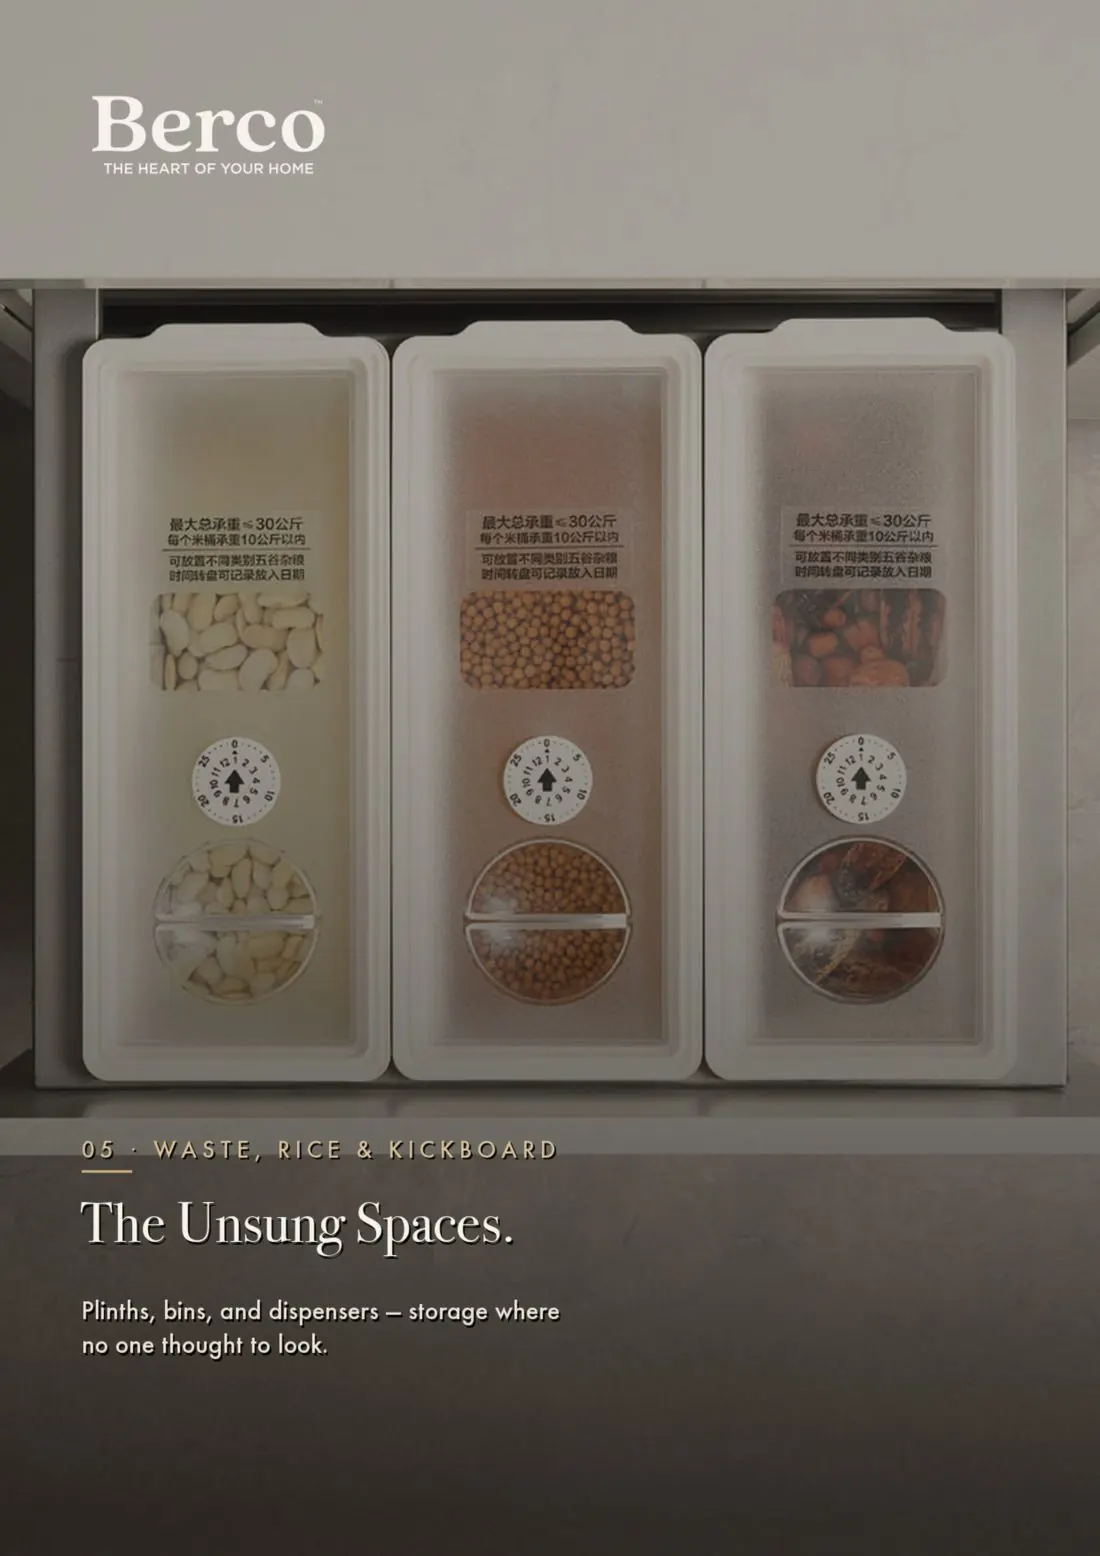
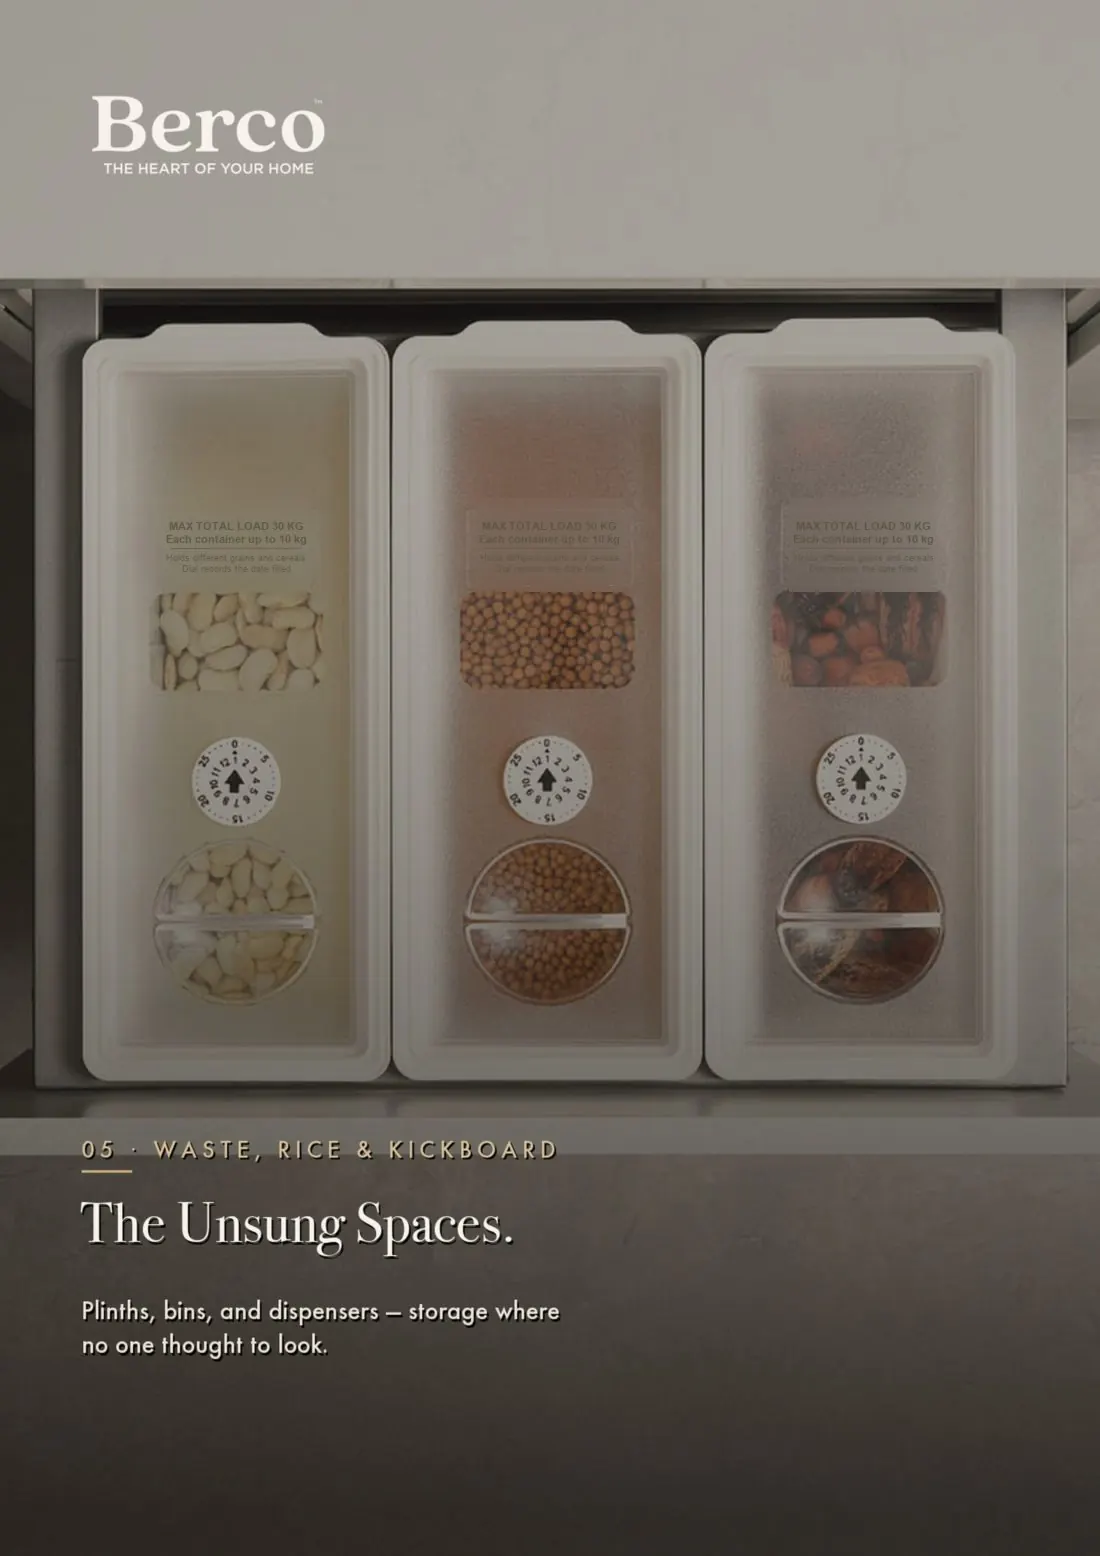
Canister labels set in English, on Jumbo's call
Six labels across two published photographs carried the supplier's own
Chinese spec text, dead centre on the product, where a crop would have
taken the product with it.

No model was involved. The pixels darker than their own neighbourhood
were found, a low-order surface was fitted to the panel around them and
the healed pixels read off that fit, then the same wording was set in
English at the size each label occupies, softened to match print on a
frosted face. The wording is a faithful translation: maximum total load
30 kg, each container up to 10 kg, holds different grains and cereals,
dial records the date filled.

The collection image is referenced ?v=2 because /img is immutable for a
year and the old bytes would otherwise sit in every cache holding them.

Changed region(s): [[0.7109, 0.3085, 0.8655, 0.401], [0.4327, 0.3085, 0.5564, 0.3702], [0.1545, 0.3085, 0.2782, 0.3702]]

diff --git a/app/collections/data.js b/app/collections/data.js
@@ -263,7 +263,7 @@ export const CATS = {
       { src: 'interior-systems-brass-drawer-organiser-philippines.jpg', alt: 'Deep drawers fitted with organizers and brass-topped bottles under a wood worktop. Berco design reference', cap: 'Fitted deep drawers', slug: 'deep-drawers-fitted-organisers', metaDesc: 'Deep base drawers under a wood worktop, fitted with dividers and a spice-jar set so labels read from above, with room for pots and lids underneath.', title: 'Deep Drawers With Fitted Organizers', blurb: 'Deep base drawers under a wood worktop, fitted with dividers, a spice-jar set and space below for pots and lids. Standing spices and canisters upright in their own holders means you read every label from above rather than reaching blind to the back. Soft-close runners let the loaded drawers settle quietly.' },
       { src: 'interior-systems-tall-pantry-pullout-philippines.jpg', alt: 'Tall slimline pantry pull-out stocked with jars and bottles. Berco design reference', cap: 'Tall pantry pull-out', slug: 'slimline-pantry-pullout', metaDesc: 'A narrow full-height pantry pull-out turning a slim gap between cabinets into stocked storage, its tiered baskets lit and drawing out as one tower.', title: 'Slimline Pantry Pull-Out', blurb: 'A narrow full-height pantry pull-out that turns a slim gap between cabinets into stocked storage. The tiered baskets draw out as a single tower, lit so bottles, tins and jars stay visible at every level. It suits the tight runs where a hinged door would be hard to load.' },
       { src: 'interior-systems-bottle-drawer-storage-philippines.jpg', alt: 'Deep drawer fitted for bottle and pantry storage with timber dividers. Berco design reference', cap: 'Bottle storage', slug: 'shallow-pantry-packet-drawer', metaDesc: 'A shallow full-extension drawer laying packets and boxes out in a single layer so the labels face up, using the awkward space under a taller unit.', title: 'Shallow Pantry Packet Drawer', blurb: 'A shallow full-extension base drawer that lays flat packets and boxes out in a single layer, so labels face up and nothing gets buried. Shallow drawers like this use the awkward space under a taller unit and keep dry goods sorted at a glance rather than stacked and forgotten.' },
-      { src: 'interior-systems-canister-drawer-philippines.jpg', alt: 'Drawer fitted with sealed canisters for grains and staples. Berco design reference', cap: 'Canister drawer', slug: 'canister-drawer-grains-staples', metaDesc: 'A drawer fitted with sealed canisters for rice, beans and dry staples, each with a portion dispenser below and a dial to note the date it was filled.', title: 'Canister Drawer for Grains and Staples', blurb: 'A drawer fitted with sealed canisters for rice, beans and dry staples, each with a portion dispenser below and a dial to note the fill date. Keeping grains in matched containers inside the drawer holds them fresh and level, and frees the worktop and pantry shelf they would otherwise take up.' },
+      { src: 'interior-systems-canister-drawer-philippines.jpg?v=2', alt: 'Drawer fitted with sealed canisters for grains and staples. Berco design reference', cap: 'Canister drawer', slug: 'canister-drawer-grains-staples', metaDesc: 'A drawer fitted with sealed canisters for rice, beans and dry staples, each with a portion dispenser below and a dial to note the date it was filled.', title: 'Canister Drawer for Grains and Staples', blurb: 'A drawer fitted with sealed canisters for rice, beans and dry staples, each with a portion dispenser below and a dial to note the fill date. Keeping grains in matched containers inside the drawer holds them fresh and level, and frees the worktop and pantry shelf they would otherwise take up.' },
       { src: 'interior-systems-tall-pantry-luxe-philippines.jpg', alt: 'Full-height pantry pull-out in a dark luxe kitchen beside a freestanding tub. Berco design reference', cap: 'Luxe pantry pull-out', slug: 'full-height-pantry-pullout-dark-kitchen', metaDesc: 'A floor-to-upper pantry column pulling out from a dark cabinet run, its tiered baskets lit so oils, bottles and jars read against the deep cabinetry.', title: 'Full-Height Pantry Pull-Out', blurb: 'A floor-to-upper pantry column that pulls out from a dark cabinet run, its tiered baskets lit so oils, bottles and jars read clearly against the deep cabinetry. Drawing the whole unit forward brings the back shelves to you, which matters most on a tall larder where the top tiers are otherwise hard to reach.' },
       { src: 'interior-systems-roller-shutter-garage-philippines.jpg', alt: 'Roller-shutter appliance garage keeping the worktop clear in a warm kitchen. Berco design reference', cap: 'Appliance garage', slug: 'roller-shutter-appliance-niche', metaDesc: 'A recessed worktop niche closed off by a roller shutter that rolls down flush, so small appliances can stay plugged in and ready but out of sight.', title: 'Roller-Shutter Appliance Niche', blurb: 'A recessed worktop niche closed off by a roller shutter that rolls down flush with the cabinetry. Small appliances and clutter can live plugged in and ready inside, then disappear behind the shutter when the kitchen needs to look clear. It keeps a working zone available without leaving it on show.' },
       { src: 'interior-systems-dish-cutlery-pullout-philippines.jpg?v=2', alt: 'Pull-out drawers with a fitted dish rack, cutlery-tray inserts and cup and jar organizers. Berco design reference', cap: 'Dish & cutlery pull-outs', slug: 'dish-rack-cutlery-pullouts', metaDesc: 'Base pull-outs below the hob with an upright dish and bowl rack, a divided cutlery tray, cup and jar holders, and a deeper drawer for pots and pans.', title: 'Dish Rack and Cutlery Pull-Outs', blurb: 'Base pull-outs below the hob, fitted with an upright dish and bowl rack, a divided cutlery tray and holders for cups and jars. Standing plates on edge lets them drain and store in the same slot, while the tray keeps utensils sorted. A deeper drawer below takes pots, pans and larger cookware.' },
